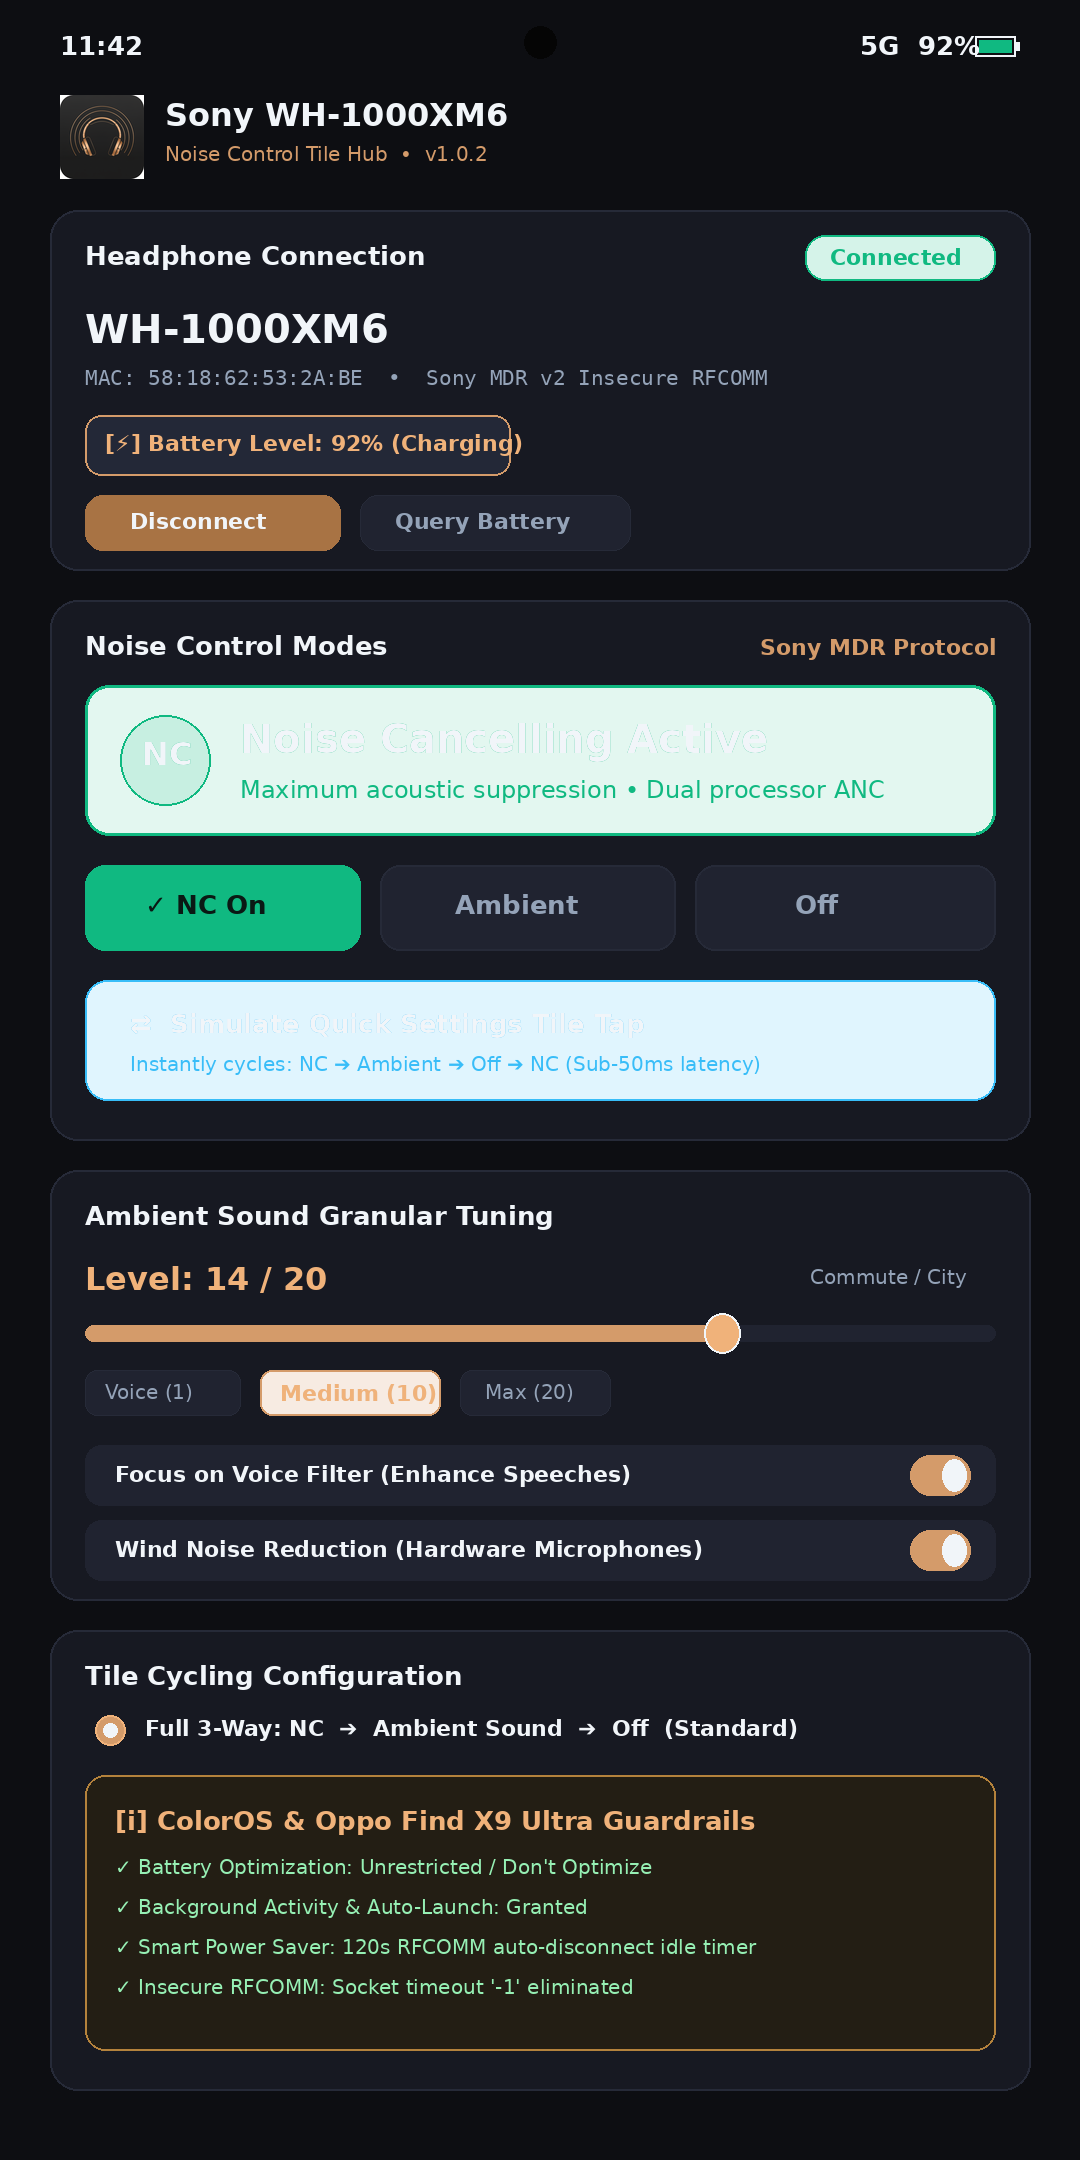
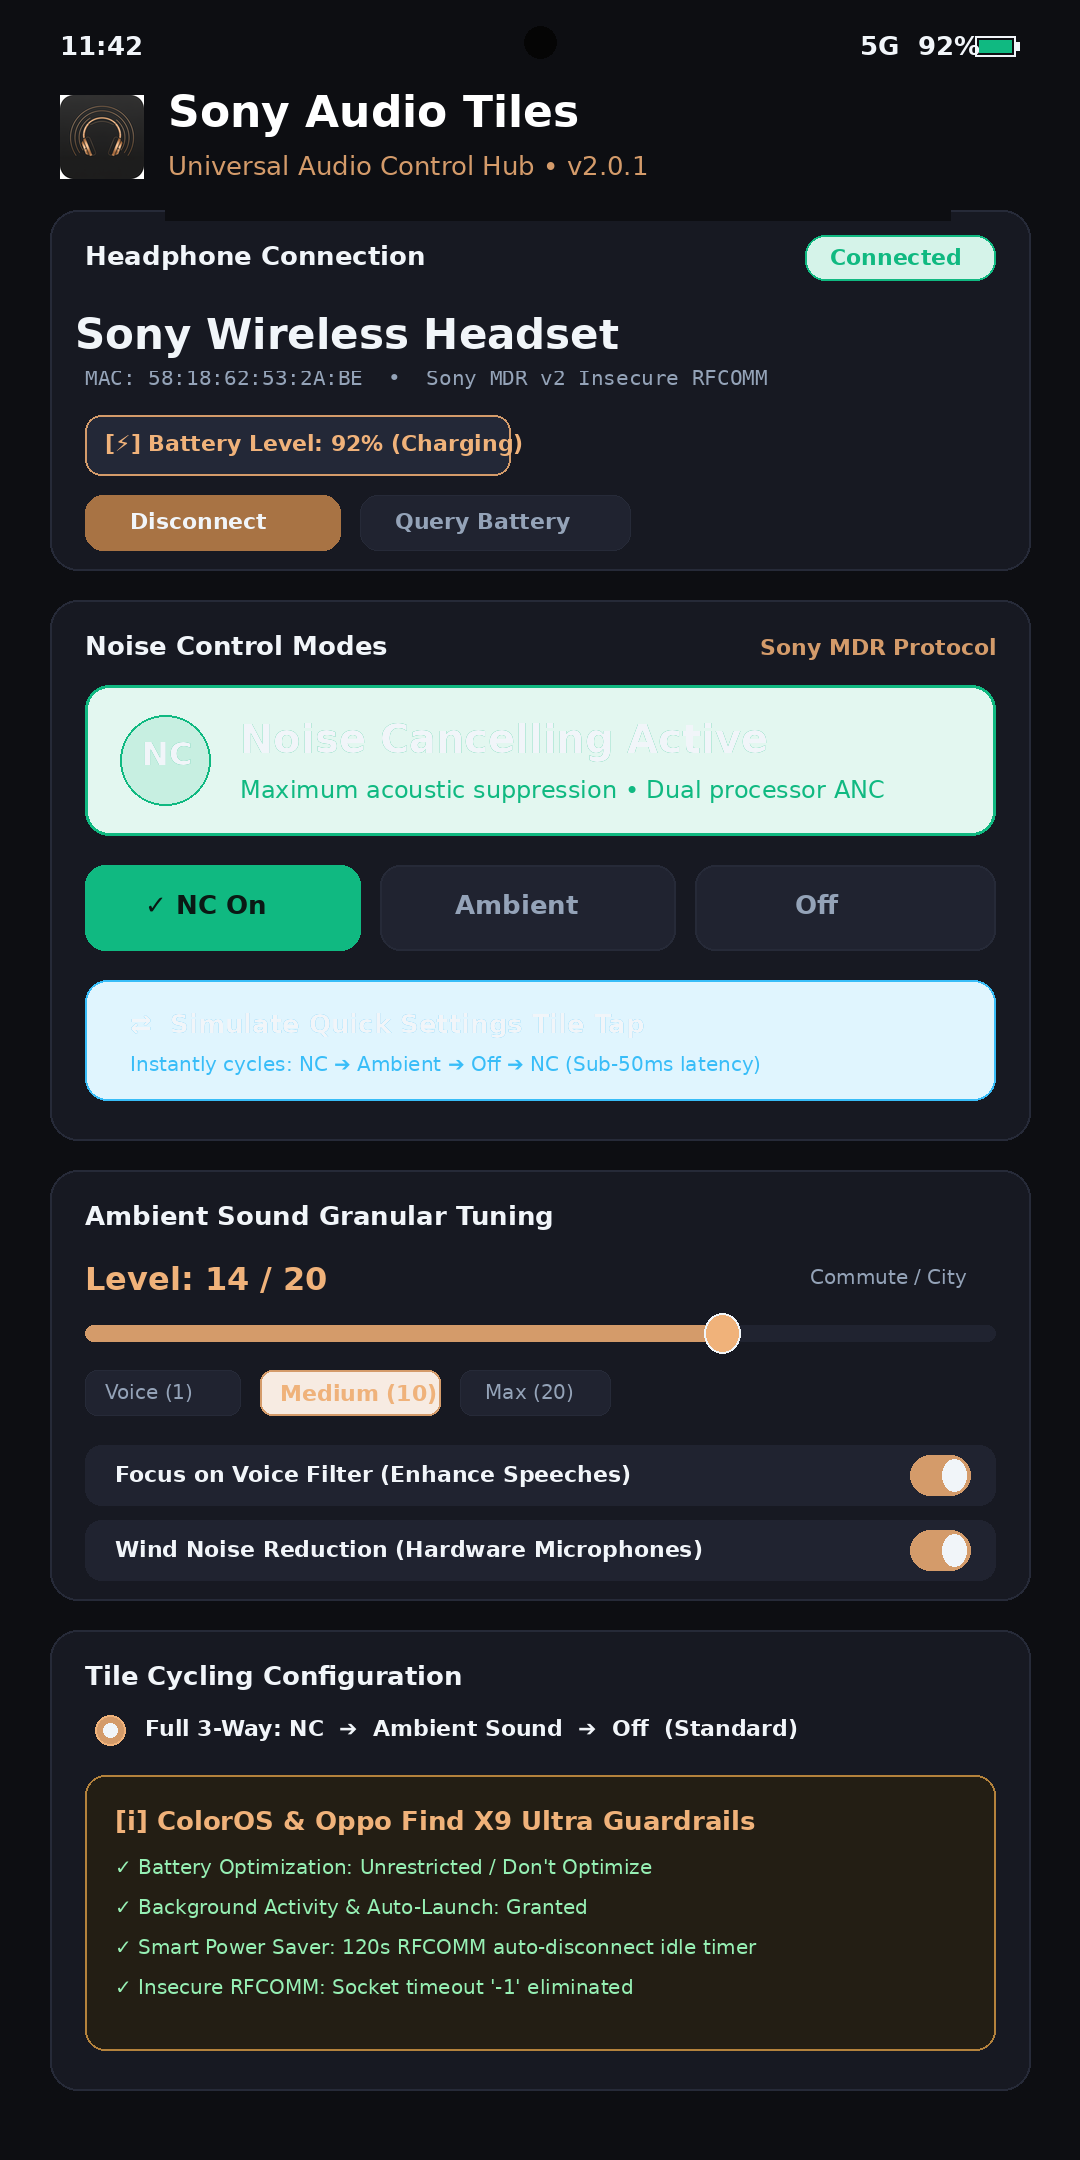
chore(assets,service): update foreground service strings and calibrate screenshot assets for v2.0.1

Changed region(s): [[0.1528, 0.031, 0.55, 0.0931], [0.0611, 0.1241, 0.3667, 0.1861], [0.3972, 0.1241, 0.55, 0.1861]]

diff --git a/app/src/main/java/com/sony/xm6controller/service/XM6ForegroundService.kt b/app/src/main/java/com/sony/xm6controller/service/XM6ForegroundService.kt
@@ -63,7 +63,7 @@ class XM6ForegroundService : Service() {
 
     private fun startForegroundWithNotification() {
         val notification = buildNotification(
-            title = "Sony WH-1000XM6 Controller",
+            title = "Sony Audio Tiles",
             content = "Connecting to headset..."
         )
 
@@ -103,13 +103,13 @@ class XM6ForegroundService : Service() {
     private fun updateNotification(connection: ConnectionState, modeLabel: String) {
         val content = when (connection) {
             is ConnectionState.Connected -> "Active Mode: $modeLabel"
-            is ConnectionState.Connecting -> "Connecting to WH-1000XM6..."
+            is ConnectionState.Connecting -> "Connecting to Sony Headset..."
             is ConnectionState.Error -> "Error: ${connection.message}"
             is ConnectionState.Disconnected -> "Disconnected"
         }
 
         val notification = buildNotification(
-            title = "Sony WH-1000XM6 Controller",
+            title = "Sony Audio Tiles",
             content = content
         )
 
@@ -157,7 +157,7 @@ class XM6ForegroundService : Service() {
         if (Build.VERSION.SDK_INT >= Build.VERSION_CODES.O) {
             val channel = NotificationChannel(
                 CHANNEL_ID,
-                "XM6 Noise Control Service",
+                "Sony Audio Tiles Service",
                 NotificationManager.IMPORTANCE_LOW
             ).apply {
                 description = "Keeps Bluetooth RFCOMM connection active for instant Quick Settings response."
